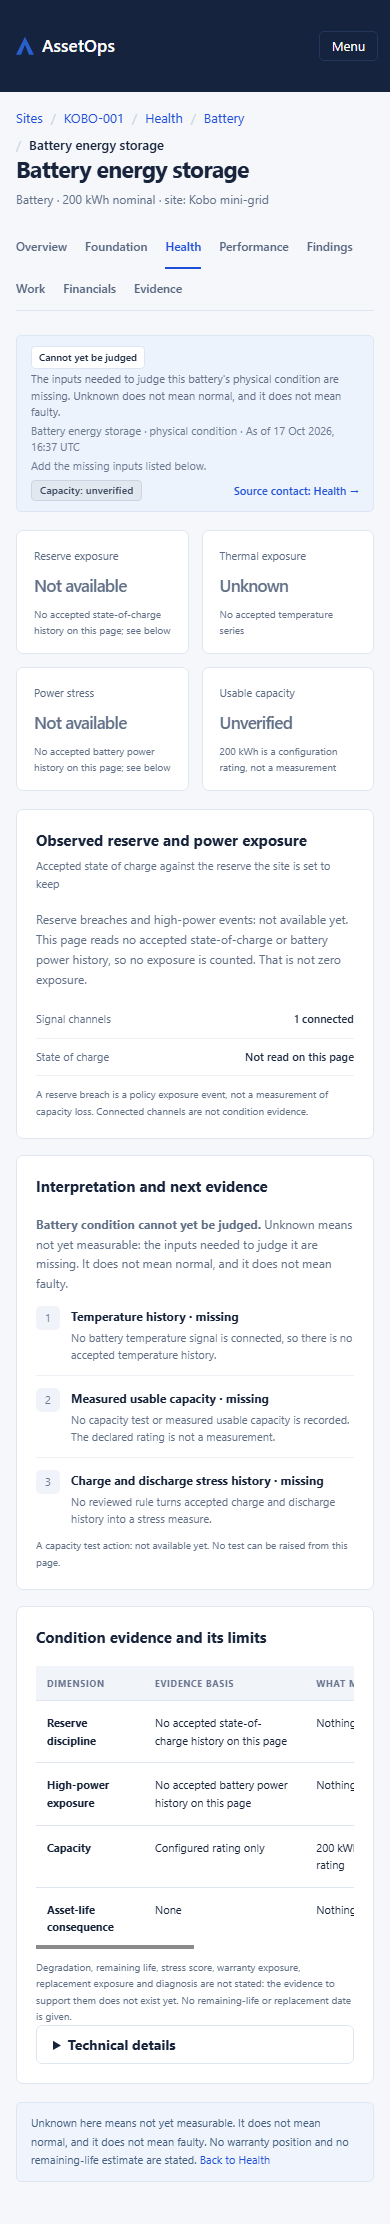
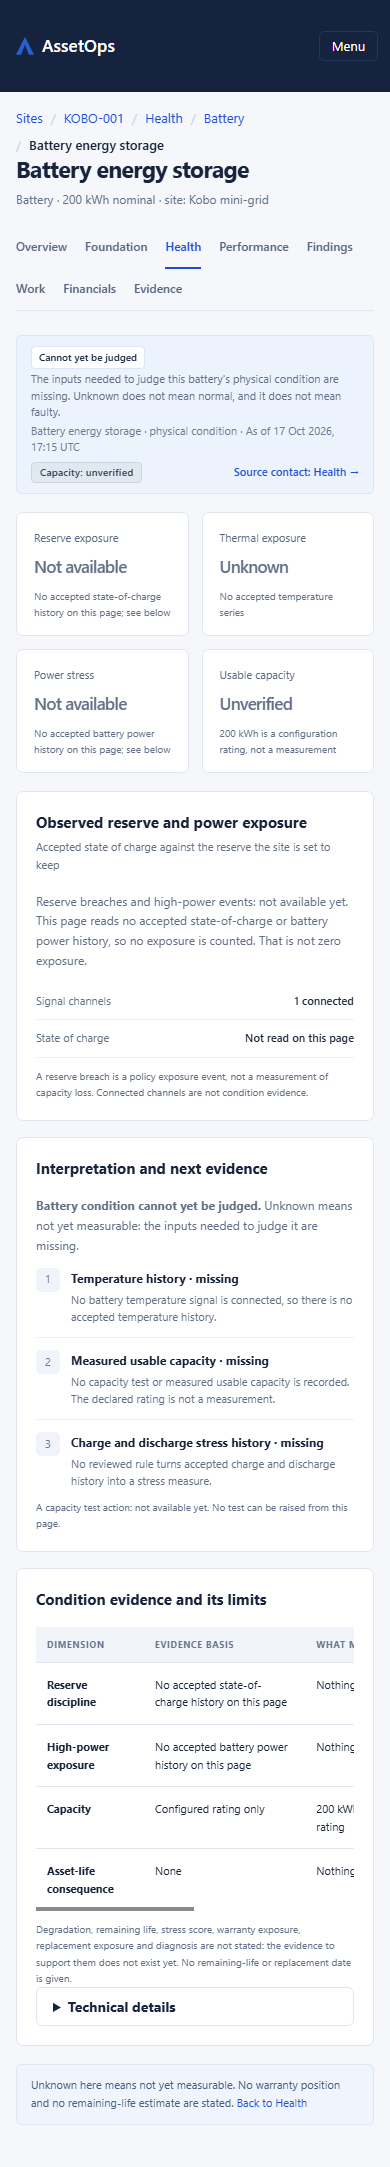
W1-F5a fix round: packet, recaptured evidence

diff --git a/.agent/W1-F5a-evidence/index.html b/.agent/W1-F5a-evidence/index.html
@@ -1,41 +1,41 @@
 <!doctype html><meta charset="utf-8"><title>W1 fidelity pairs</title><style>body{font:13px system-ui;margin:16px}.pair{display:grid;grid-template-columns:1fr 1fr;gap:12px;align-items:start}img{width:100%;border:1px solid #ccc}figure{margin:0}</style>
-<p>Revision e0815ac8 · captured 2026-10-17T16:37:02.016Z</p><section><h2>health (kobo001) · 1440x1000</h2>
+<p>Revision 6cf0692c · captured 2026-10-17T17:15:26.315Z</p><section><h2>health (kobo001) · 1440x1000</h2>
 <p>App: Physical asset condition | Data sources · data quality, not equipment condition<br>Mock: Physical asset condition | Data sources · data quality, not equipment condition</p>
-<div class="pair"><figure><figcaption>App http://localhost:6005/sites/KOBO-001/health</figcaption><img src="health-kobo001-1440-app.png"></figure>
+<div class="pair"><figure><figcaption>App http://localhost:6006/sites/KOBO-001/health</figcaption><img src="health-kobo001-1440-app.png"></figure>
 <figure><figcaption>Mock #/health</figcaption><img src="health-kobo001-1440-mock.png"></figure></div></section>
 <section><h2>health (kobo001) · 390x900</h2>
 <p>App: Physical asset condition | Data sources · data quality, not equipment condition<br>Mock: Physical asset condition | Data sources · data quality, not equipment condition</p>
-<div class="pair"><figure><figcaption>App http://localhost:6005/sites/KOBO-001/health</figcaption><img src="health-kobo001-390-app.png"></figure>
+<div class="pair"><figure><figcaption>App http://localhost:6006/sites/KOBO-001/health</figcaption><img src="health-kobo001-390-app.png"></figure>
 <figure><figcaption>Mock #/health</figcaption><img src="health-kobo001-390-mock.png"></figure></div></section>
 <section><h2>health (kobo002-nogateway) · 1440x1000</h2>
 <p>App: Physical asset condition | Data sources · data quality, not equipment condition<br>Mock: Physical asset condition | Data sources · data quality, not equipment condition</p>
-<div class="pair"><figure><figcaption>App http://localhost:6005/sites/KOBO-002/health</figcaption><img src="health-kobo002-nogateway-1440-app.png"></figure>
+<div class="pair"><figure><figcaption>App http://localhost:6006/sites/KOBO-002/health</figcaption><img src="health-kobo002-nogateway-1440-app.png"></figure>
 <figure><figcaption>Mock #/health</figcaption><img src="health-kobo002-nogateway-1440-mock.png"></figure></div></section>
 <section><h2>health (kobo002-nogateway) · 390x900</h2>
 <p>App: Physical asset condition | Data sources · data quality, not equipment condition<br>Mock: Physical asset condition | Data sources · data quality, not equipment condition</p>
-<div class="pair"><figure><figcaption>App http://localhost:6005/sites/KOBO-002/health</figcaption><img src="health-kobo002-nogateway-390-app.png"></figure>
+<div class="pair"><figure><figcaption>App http://localhost:6006/sites/KOBO-002/health</figcaption><img src="health-kobo002-nogateway-390-app.png"></figure>
 <figure><figcaption>Mock #/health</figcaption><img src="health-kobo002-nogateway-390-mock.png"></figure></div></section>
 <section><h2>asset (kobo001) · 1440x1000</h2>
 <p>App: Observed reserve and power exposure | Interpretation and next evidence | Condition evidence and its limits<br>Mock: Observed reserve and power exposure | Interpretation and next evidence | Condition evidence and claim boundary</p>
-<div class="pair"><figure><figcaption>App http://localhost:6005/sites/KOBO-001/assets/cd7b6110-7c26-4c10-a98b-2153f9ca0f0b</figcaption><img src="asset-kobo001-1440-app.png"></figure>
+<div class="pair"><figure><figcaption>App http://localhost:6006/sites/KOBO-001/assets/bc255e91-3679-4383-83e1-eac7fcf8a0da</figcaption><img src="asset-kobo001-1440-app.png"></figure>
 <figure><figcaption>Mock #/asset</figcaption><img src="asset-kobo001-1440-mock.png"></figure></div></section>
 <section><h2>asset (kobo001) · 390x900</h2>
 <p>App: Observed reserve and power exposure | Interpretation and next evidence | Condition evidence and its limits<br>Mock: Observed reserve and power exposure | Interpretation and next evidence | Condition evidence and claim boundary</p>
-<div class="pair"><figure><figcaption>App http://localhost:6005/sites/KOBO-001/assets/cd7b6110-7c26-4c10-a98b-2153f9ca0f0b</figcaption><img src="asset-kobo001-390-app.png"></figure>
+<div class="pair"><figure><figcaption>App http://localhost:6006/sites/KOBO-001/assets/bc255e91-3679-4383-83e1-eac7fcf8a0da</figcaption><img src="asset-kobo001-390-app.png"></figure>
 <figure><figcaption>Mock #/asset</figcaption><img src="asset-kobo001-390-mock.png"></figure></div></section>
 <section><h2>asset (refusal) · 1440x1000</h2>
 <p>App: Observed reserve and power exposure | Interpretation and next evidence | Condition evidence and its limits<br>Mock: Observed reserve and power exposure | Interpretation and next evidence | Condition evidence and claim boundary</p>
-<div class="pair"><figure><figcaption>App http://localhost:6005/sites/KOBO-002/assets/00000000-0000-4000-8000-000000000000</figcaption><img src="asset-refusal-1440-app.png"></figure>
+<div class="pair"><figure><figcaption>App http://localhost:6006/sites/KOBO-002/assets/00000000-0000-4000-8000-000000000000</figcaption><img src="asset-refusal-1440-app.png"></figure>
 <figure><figcaption>Mock #/asset</figcaption><img src="asset-refusal-1440-mock.png"></figure></div></section>
 <section><h2>asset (refusal) · 390x900</h2>
 <p>App: Observed reserve and power exposure | Interpretation and next evidence | Condition evidence and its limits<br>Mock: Observed reserve and power exposure | Interpretation and next evidence | Condition evidence and claim boundary</p>
-<div class="pair"><figure><figcaption>App http://localhost:6005/sites/KOBO-002/assets/00000000-0000-4000-8000-000000000000</figcaption><img src="asset-refusal-390-app.png"></figure>
+<div class="pair"><figure><figcaption>App http://localhost:6006/sites/KOBO-002/assets/00000000-0000-4000-8000-000000000000</figcaption><img src="asset-refusal-390-app.png"></figure>
 <figure><figcaption>Mock #/asset</figcaption><img src="asset-refusal-390-mock.png"></figure></div></section>
 <section><h2>sitefindings (header) · 1440x1000</h2>
 <p>App: Findings list closed for this Site<br>Mock: Findings at this site</p>
-<div class="pair"><figure><figcaption>App http://localhost:6005/sites/KOBO-001/findings</figcaption><img src="sitefindings-header-1440-app.png"></figure>
+<div class="pair"><figure><figcaption>App http://localhost:6006/sites/KOBO-001/findings</figcaption><img src="sitefindings-header-1440-app.png"></figure>
 <figure><figcaption>Mock #/sitefindings</figcaption><img src="sitefindings-header-1440-mock.png"></figure></div></section>
 <section><h2>sitefindings (header) · 390x900</h2>
 <p>App: Findings list closed for this Site<br>Mock: Findings at this site</p>
-<div class="pair"><figure><figcaption>App http://localhost:6005/sites/KOBO-001/findings</figcaption><img src="sitefindings-header-390-app.png"></figure>
+<div class="pair"><figure><figcaption>App http://localhost:6006/sites/KOBO-001/findings</figcaption><img src="sitefindings-header-390-app.png"></figure>
 <figure><figcaption>Mock #/sitefindings</figcaption><img src="sitefindings-header-390-mock.png"></figure></div></section>

diff --git a/.agent/W1-F5a-review-packet.md b/.agent/W1-F5a-review-packet.md
@@ -85,7 +85,43 @@ Brief: `.agent/W1-F5a-build-brief.md`. Contract: `.agent/architect-W1-fidelity.m
 
 ## Residual risk
 - `SiteAnalyticsFrames.tsx` and the registry `mock_gaps` list will conflict textually with F3/F4 at merge (different hunks; append-position conflict in the registry).
-- The Menu control depends on `matchMedia`. If it is absent, the rail stays visible but the button is not rendered.
+- The Menu control depends on `matchMedia`. If it is absent, the button is not rendered, but the 640px CSS (`primitives.css:2838`) still hides `.app-frame__rail-body`, so the rail is unreachable (corrected in the fix round; the review's L4). Every target browser has `matchMedia`, so this does not block.
 
 ## User review
 No owner review per slice (W1 walkthroughs deferred to the combined owner walkthrough after F5). Coordinator ruling needed on deviation 1. Independent fresh-Claude review next.
+
+## Fix round (review RETURN: 1 High, 1 Medium, 3 Low)
+Code `6cf0692c`; base review revision `e84a3294`.
+
+| Finding | Fix |
+| --- | --- |
+| H1 Health data-sources panel | One row per gateway (9 rows, no cap). Source cell gives the device count ("2 devices"). Status is a short word with age ("Current · 5 s ago", "Stale · 10 min", "Never received", "Disabled"). Quality is a `Badge` ("Current", "Old", "Unknown age", "Nothing received"; an untrusted clock stays "Unknown age"). Rows needing attention come first, then current, then disabled. The device rows, queue and storage moved to a "what each gateway last reported" table in Technical details (`HealthReportedDetail`; keeps `data-health-queue-row` and `data-health-source`). The selected-gateway view gains a Queue row. The summary is one line: label plus counts (the sentence is kept only when no gateway is enabled, so that its next step stays) |
+| M2 state said once | Health strip is now "Unknown does not mean normal, and it does not mean faulty." with no `next`. The Main reason cell says "See battery page". Asset: the clause is removed from the panel 2 lead and the notice, and stays in the strip; the strip `next` is removed. New test counts "does not mean normal" once per screen |
+| L3 KOBO-002 repeats | Counts line no longer repeats the no-gateway sentence. The panel 1 not-configured line is just the "Battery page" link |
+| L4 matchMedia note | Packet residual-risk text corrected (above). The CSS was not changed |
+| L5 breadcrumb | Out of scope, carried to F5b |
+
+### Re-pointed assertions (none weakened or deleted)
+- Row wording ("Current: received 5 s ago", "Stale: ... (limit 1 min)", "Old: observed 6 h ago; it reached the server 6 h after", "Unknown age: the gateway's clock is off by 95 s ...", "Nothing received yet"): the short forms are asserted on the row (status and quality cells). The long wording is asserted on `[data-health-reported]` rows. The stale limit, "when it stopped is not known" and "Disabled (not counted)" are asserted in a new selected-gateway test.
+- "Disabled, not counted." on the row: the summary's "1 disabled, not counted" is asserted, and "Disabled (not counted)" in the selected view.
+- "Gateway contact: not all current / no enabled gateway / not recognised": the label ("Some gateways are not in contact.", "No gateway is reporting.", "not recognised") is asserted. Those prefixes were the second statement of the label.
+- "No gateway is enabled ... about contact": now "... about source contact." (the headline sentence; the duplicate counts-line copy is gone).
+- "Unknown (not configured)" under panel 1: replaced with the lead text "No battery is part of this site's configuration" plus the link. The review asked to remove the duplicate line.
+- Technical-details `aria-current` lookup now targets `[data-health-technical]`, because the reported table also marks the selected row.
+- New tests: 9 rows, no device rows in the table, attention first, disabled last, device count, Quality chip per row.
+
+### Checks (final fix revision)
+- `npx.cmd tsc --noEmit`: clean. `siteHealthBoundary` 29/29. `src/sites/__tests__` 20 files, 740/740.
+- Full `npm.cmd test`: 76 files, **1992 passed, 0 failed**, 133 s. No known flake appeared.
+- `tools/check-all.ps1`: 10/10 PASS.
+- Evidence: `tools/w1-fidelity-evidence.mjs` on API 9606, web 6006, CDP 9607 with a fresh S7-01 fixture (`assetops_s701_owner_f5afix`): **60/60 claims pass**, no horizontal overflow. The fixture DB, work dir and servers were dropped and stopped afterwards.
+
+### New heights (app / mock)
+| Screen / case | Panel | 1440 | 390 |
+| --- | --- | --- | --- |
+| health KOBO-001 | Data sources | 766 / 285 (**2.69**, was 4.95) | 867 / 391 (**2.22**, was 4.52) |
+| health KOBO-001 | Physical asset condition | 253 / 285 (0.89) | 342 / 442 (0.77) |
+| health KOBO-002 | Data sources | 308 / 285 (1.08) | 426 / 391 (1.09) |
+| asset KOBO-001 | the three panels | 379 / 316, 379 / 316, 358 / 287 | 330 / 274, 415 / 316, 478 / 428 |
+
+The remaining height above ~2x at 1440 is nine honest rows; none is hidden.
